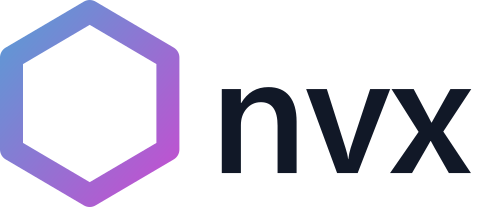
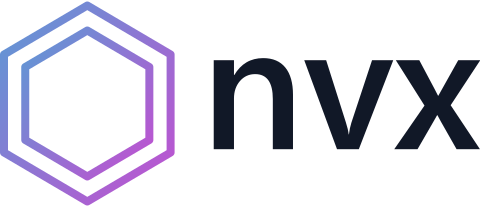
Restore the wordmark's inner ring and its centre line
Two defects in the regenerated mark, both introduced yesterday and both
visible.

The logo is two concentric hexagon rings and came back with one.
public/favicon.svg drops the inner ring deliberately, because it closes up at
16px, so the favicon is the wrong shape to copy at 480px even though it is the
right colour. Geometry is measured from the previous asset rather than guessed:
outer ring drawn x 2..177 and y 1..205, inner x 23..156 and y 26..180, stroke 8,
giving a centre-to-vertex radius of 98 outside and 73 inside. The favicon's own
stroke scales to 23 here and would swallow the gap between the rings.

The lettering had also drifted off the hexagon's centre line by 27px, because
`dominant-baseline` centres on the em box and "nvx" is all x-height, with no
ascender or descender to fill it. The generator now reports both halves'
vertical midpoints and the offset between them, so this cannot drift unnoticed
again. It reads 0.5px.

The accent tokens go back to purple. Retuning them to the favicon's blue end
was not what was asked for and removed a hue that was wanted.

Changed region(s): [[0.4375, 0.2609, 1.0, 0.8406], [0.0, 0.0, 0.375, 1.0]]

diff --git a/site/src/styles/tokens.css b/site/src/styles/tokens.css
@@ -70,18 +70,13 @@
    * before these tokens existed. The light theme's darker accent is below.
    *
    * 5.62:1 on --ui-bg. */
-  /* Taken from the favicon's own ramp, whose blue end is #5b9bd5. The mark in
-     the tab and the accent on the page disagreed, and a tab icon that does not
-     match the site reads as a different product. Measured on --ui-bg: 6.10:1,
-     up from the purple's 5.37. */
-  --ui-accent: #5b9bd5;
-  --ui-accent-rgb: 91, 155, 213;
+  --ui-accent: #af6eeb;
+  --ui-accent-rgb: 175, 110, 235;
   /* Hover and other lifted states: a visible step up from the accent, at
      11.53:1. A pair that is too close reads as nothing happening. */
-  --ui-accent-bright: #7db0de;
-  /* Pale tint for active text on dark surfaces. Blue now, not the purple it
-     was left as when the accent moved to the favicon's ramp. 14.62:1. */
-  --ui-accent-high: #e3eff9;
+  --ui-accent-bright: #dcbff6;
+  /* Pale tint for active text on dark surfaces. 16.56:1. */
+  --ui-accent-high: #f5edfd;
   /* Hover border for interactive chrome: the theme control in both bars, and
      the pagination links in the docs. Was declared only in the docs stack, so
      the landing bar's copy of the same control could not reach it and hovered
@@ -218,14 +213,10 @@ html[data-theme='light'] {
    * than the base accent rather than lighter.
    *
    * 7.54 / 9.61 / 11.47 on --ui-bg. */
-  /* The same blue, walked down rather than up, because depth inverts with the
-     theme: on white, "bright" is a hover state and so DARKER. The favicon's
-     own #5b9bd5 measures 2.96:1 here and cannot be used directly.
-     6.89 / 8.05 / 8.43 on --ui-bg. */
-  --ui-accent: #1f5c99;
-  --ui-accent-rgb: 31, 92, 153;
-  --ui-accent-bright: #1b5288;
-  --ui-accent-high: #155080;
+  --ui-accent: #731bc5;
+  --ui-accent-rgb: 115, 27, 197;
+  --ui-accent-bright: #5e16a2;
+  --ui-accent-high: #4f1287;
   /* White on the accent fill: 7.80:1, where the dark theme's near-black
      would be 1.6:1. */
   --ui-on-accent: #ffffff;
